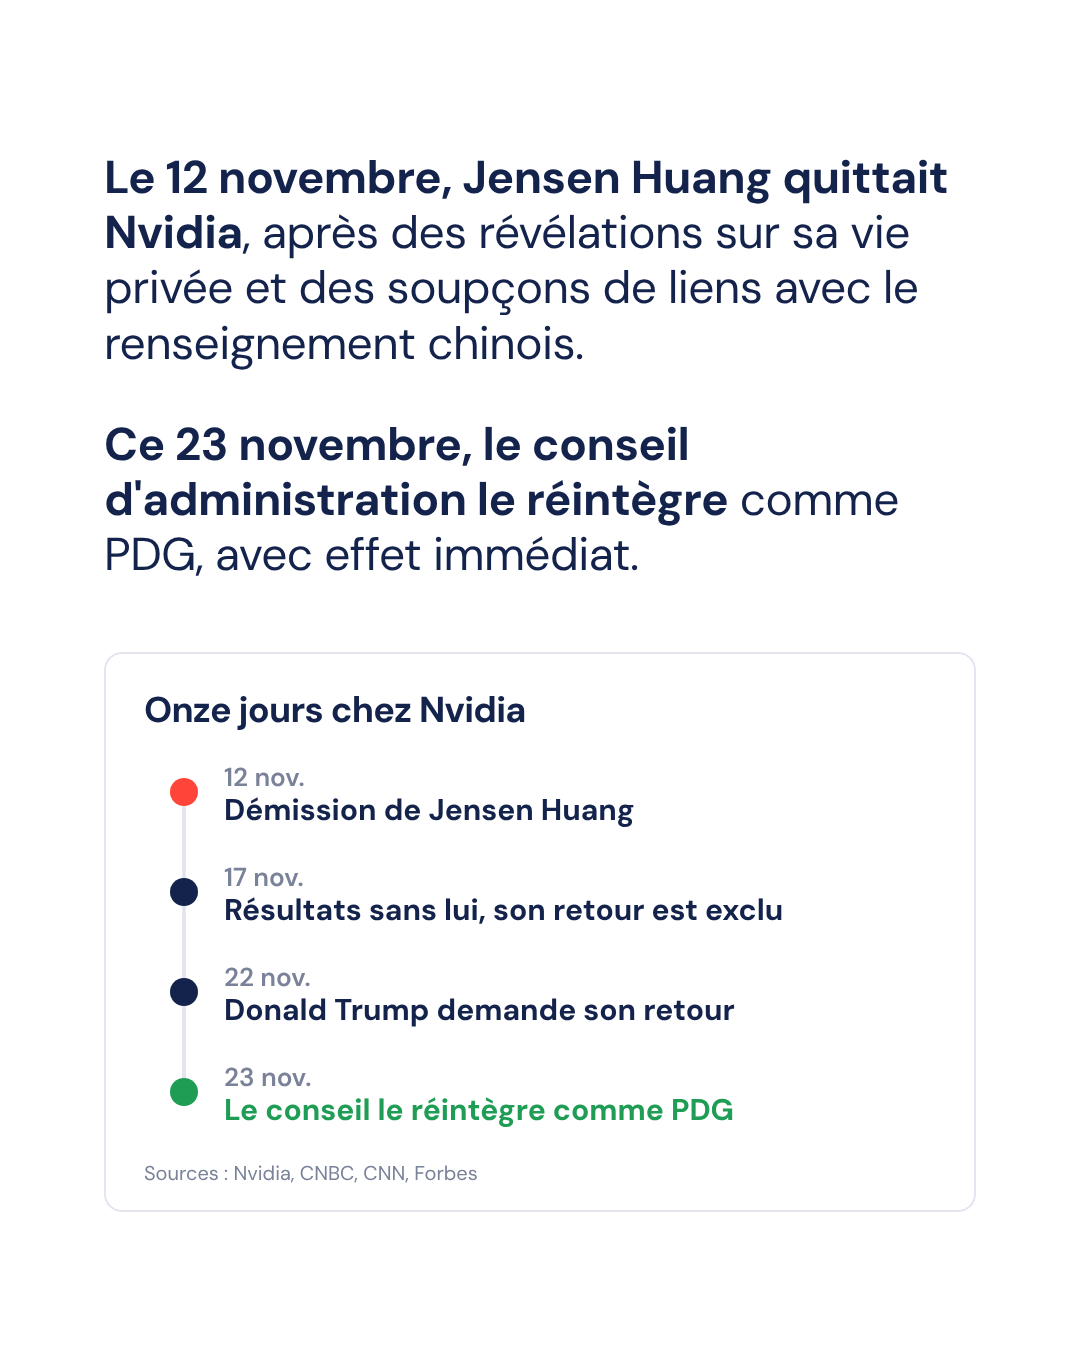
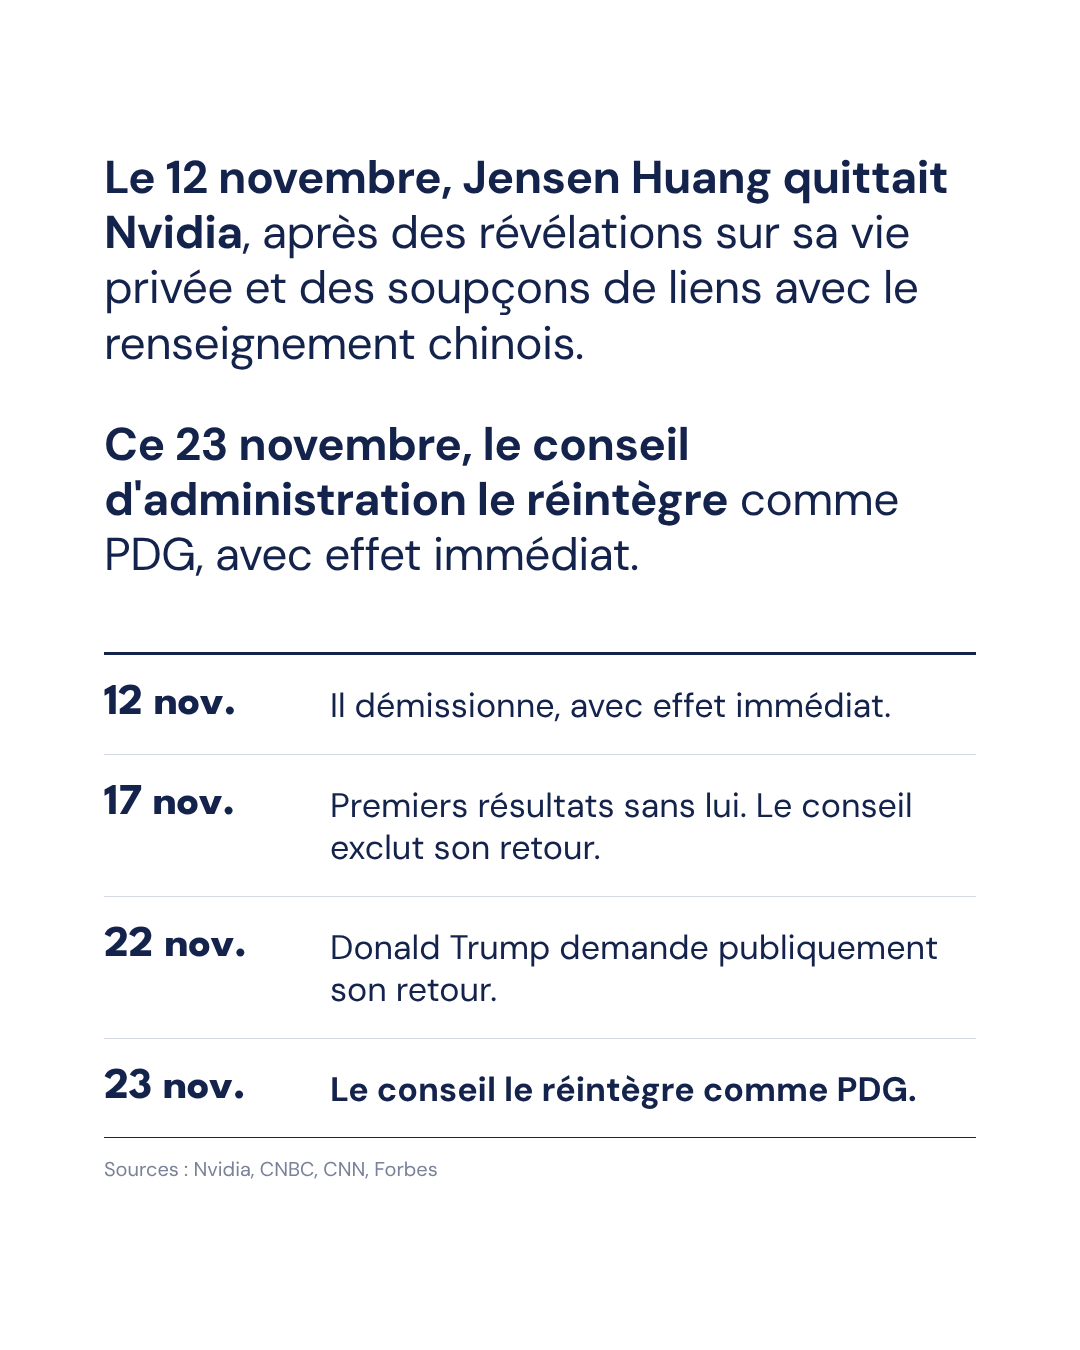
Carrousel Nvidia : nouveau titre de couverture, frise façon journal
Claude-Session: https://claude.ai/code/session_0172khLHKtjafTGZdmNpPSJZ

Changed region(s): [[0.0917, 0.4978, 0.8556, 0.9022]]

diff --git a/carrousel-nvidia-retour/carrousel.html b/carrousel-nvidia-retour/carrousel.html
@@ -29,7 +29,7 @@
 <section class="pg" id="p1" style="background:#000">
   <img src="assets/photos/jensen-scene.jpg" style="position:absolute; inset:0; width:1080px; height:1350px; object-fit:cover; object-position:50% 12%">
   <div style="position:absolute; left:0; right:0; bottom:0; height:720px; background:linear-gradient(180deg, rgba(0,0,0,0) 0%, rgba(0,0,0,.7) 45%, rgba(0,0,0,.92) 100%)"></div>
-  <div style="position:absolute; left:80px; right:80px; top:790px; text-align:center; font-family:'League Spartan'; font-weight:700; font-size:76px; line-height:1.02; letter-spacing:-.01em; color:#fff">11 jours après sa démission, Jensen Huang revient chez Nvidia<div style="margin-top:22px; font-size:52px; color:#30d158">et l'action bondit de +26 % avant l'ouverture</div></div>
+  <div style="position:absolute; left:80px; right:80px; top:830px; text-align:center; font-family:'League Spartan'; font-weight:700; font-size:82px; line-height:1.02; letter-spacing:-.01em; color:#fff">Jensen Huang redevient le PDG de Nvidia et l'action bondit de 26 %</div>
   <img src="assets/img/fd-fleche-blanche.png" style="position:absolute; left:495px; top:1210px; width:90px; height:90px">
 </section>
 
@@ -39,7 +39,7 @@
     <p><b>Le 12 novembre, Jensen Huang quittait Nvidia</b>, après des révélations sur sa vie privée et des soupçons de liens avec le renseignement chinois.</p>
     <p><b>Ce 23 novembre, le conseil d'administration le réintègre</b> comme PDG, avec effet immédiat.</p>
   </div>
-  <div class="card vis" id="frise" style="height:560px; background:#fff; box-shadow:inset 0 0 0 2px #e3e6ee"></div>
+  <div class="vis" id="frise" style="position:absolute; left:104px; width:872px"></div>
 </section>
 
 <!-- 3. Pourquoi ce revirement -->
@@ -84,19 +84,16 @@
   function el(s, tag, a, text) { var e = document.createElementNS(NS, tag); for (var k in a) e.setAttribute(k, a[k]); if (text != null) e.textContent = text; s.appendChild(e); return e; }
   function T(s, x, y, str, size, fill, w, anchor) { return el(s, "text", { x: x, y: y, "font-size": size, fill: fill, "font-weight": w || 500, "text-anchor": anchor || "start" }, str); }
   function fr(v, d) { return v.toLocaleString("fr-FR", { minimumFractionDigits: d, maximumFractionDigits: d }).replace(/[  ]/g, " "); }
-  // page 2 : frise des 11 jours
+  // page 2 : frise façon chronologie de journal, sans carte ni pastilles
   (function () {
-    var box = document.getElementById("frise");
-    box.insertAdjacentHTML("beforeend", "<div style='position:absolute; left:40px; top:34px; font-size:36px; font-weight:700; letter-spacing:-.02em'>Onze jours chez Nvidia</div>");
-    var g = document.createElementNS(NS, "svg"); g.setAttribute("width", 872); g.setAttribute("height", 560); g.style.left = "0"; g.style.top = "0"; box.appendChild(g);
-    var EV = [["12 nov.", "Démission de Jensen Huang", RED], ["17 nov.", "Résultats sans lui, son retour est exclu", NAVY], ["22 nov.", "Donald Trump demande son retour", NAVY], ["23 nov.", "Le conseil le réintègre comme PDG", GREEN]];
-    var x = 80, y0 = 140, step = 100;
-    el(g, "line", { x1: x, x2: x, y1: y0, y2: y0 + step * 3, stroke: "#e3e6ee", "stroke-width": 4 });
-    EV.forEach(function (e, k) { var y = y0 + k * step;
-      el(g, "circle", { cx: x, cy: y, r: 14, fill: e[2] });
-      T(g, x + 40, y - 6, e[0], 26, GREY, 600);
-      T(g, x + 40, y + 28, e[1], 30, k === 3 ? GREEN : NAVY, 700); });
-    box.insertAdjacentHTML("beforeend", "<div style='position:absolute; left:40px; bottom:26px; font-size:20px; color:#7a8299'>Sources : Nvidia, CNBC, CNN, Forbes</div>");
+    var box = document.getElementById("frise"), EV = [["12 nov.", "Il démissionne, avec effet immédiat."], ["17 nov.", "Premiers résultats sans lui. Le conseil exclut son retour."], ["22 nov.", "Donald Trump demande publiquement son retour."], ["23 nov.", "Le conseil le réintègre comme PDG."]];
+    var h = "<div style='border-top:3px solid #14234b'></div>";
+    EV.forEach(function (e, k) { var last = k === EV.length - 1;
+      h += "<div style='display:flex; gap:36px; padding:26px 0; border-bottom:1px solid " + (last ? "#14234b" : "#d5d9e3") + "'>" +
+        "<div style='flex:0 0 190px; font-family:League Spartan; font-weight:700; font-size:44px; line-height:1.05; letter-spacing:-.01em'>" + e[0] + "</div>" +
+        "<div style='flex:1; font-size:34px; line-height:1.25; padding-top:4px; " + (last ? "font-weight:700" : "") + "'>" + e[1] + "</div></div>"; });
+    h += "<div style='margin-top:18px; font-size:20px; color:#7a8299'>Sources : Nvidia, CNBC, CNN, Forbes</div>";
+    box.innerHTML = h;
   })();
   // page 4 : carte sombre, cours depuis avril, chute en rouge, point avant l'ouverture du 23/11
   (function () {
